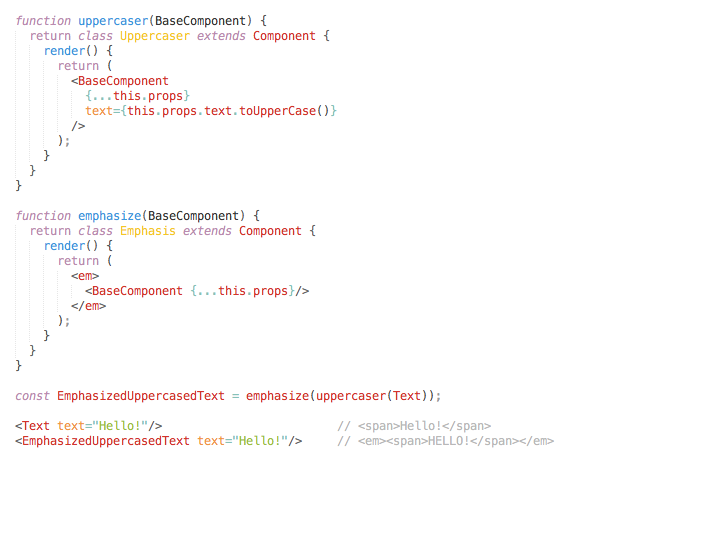
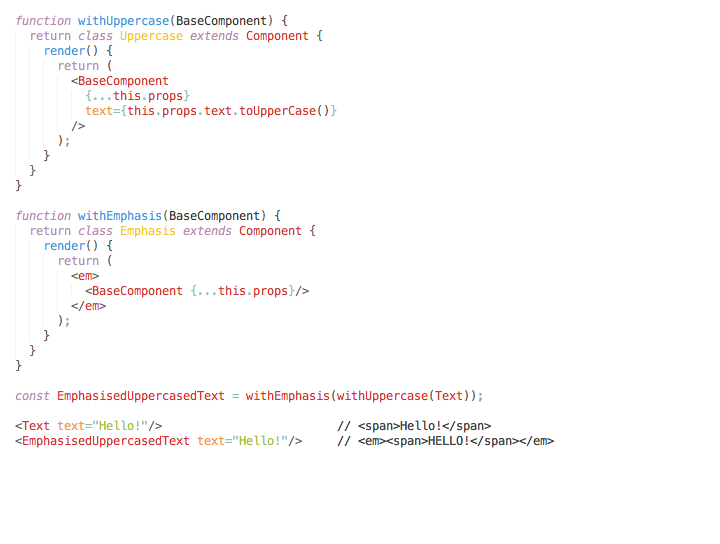
Fixed typos

Changed region(s): [[0.3361, 0.7188, 0.7639, 0.8438], [0.0917, 0.0312, 0.4583, 0.0938], [0.0917, 0.375, 0.3972, 0.4062]]

diff --git a/index.html b/index.html
@@ -369,13 +369,13 @@
 
 	<section class="slide">
 		<figure>
-			<img class="cover" src="pictures/example-hoc-uppercaser.png">
+			<img class="cover" src="pictures/example-hoc-uppercase.png">
 		</figure>
 	</section>
 
 	<section class="slide">
 		<figure>
-			<img class="cover" src="pictures/example-hoc-emphasize.png">
+			<img class="cover" src="pictures/example-hoc-emphasis.png">
 		</figure>
 	</section>
 
